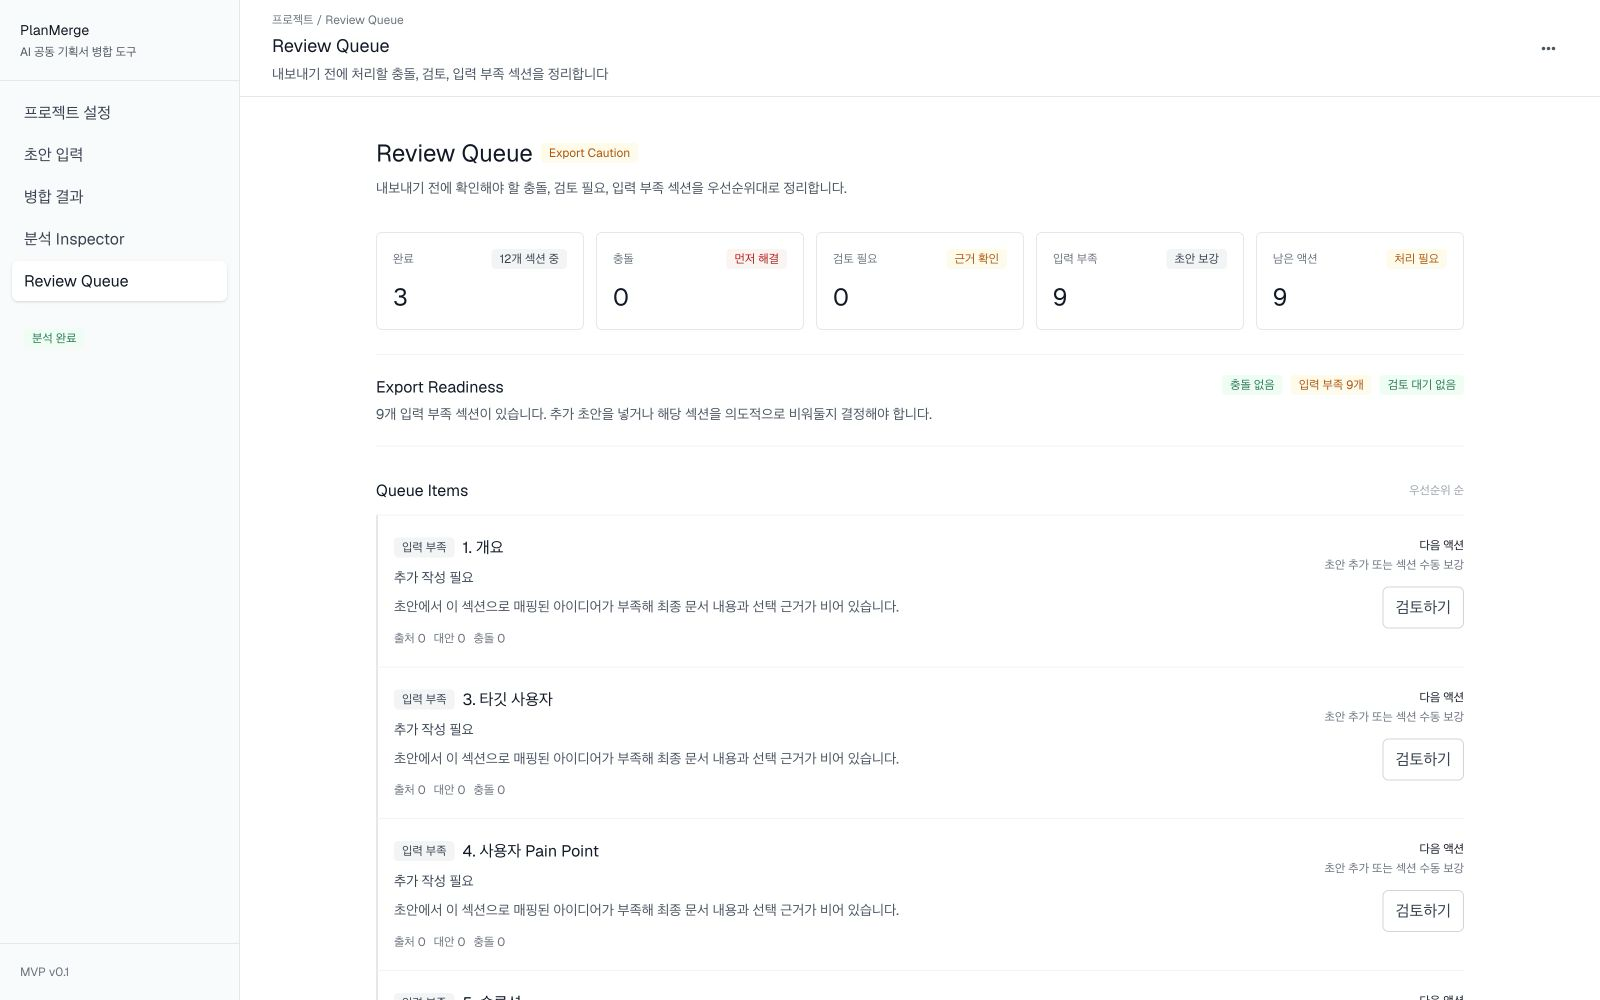
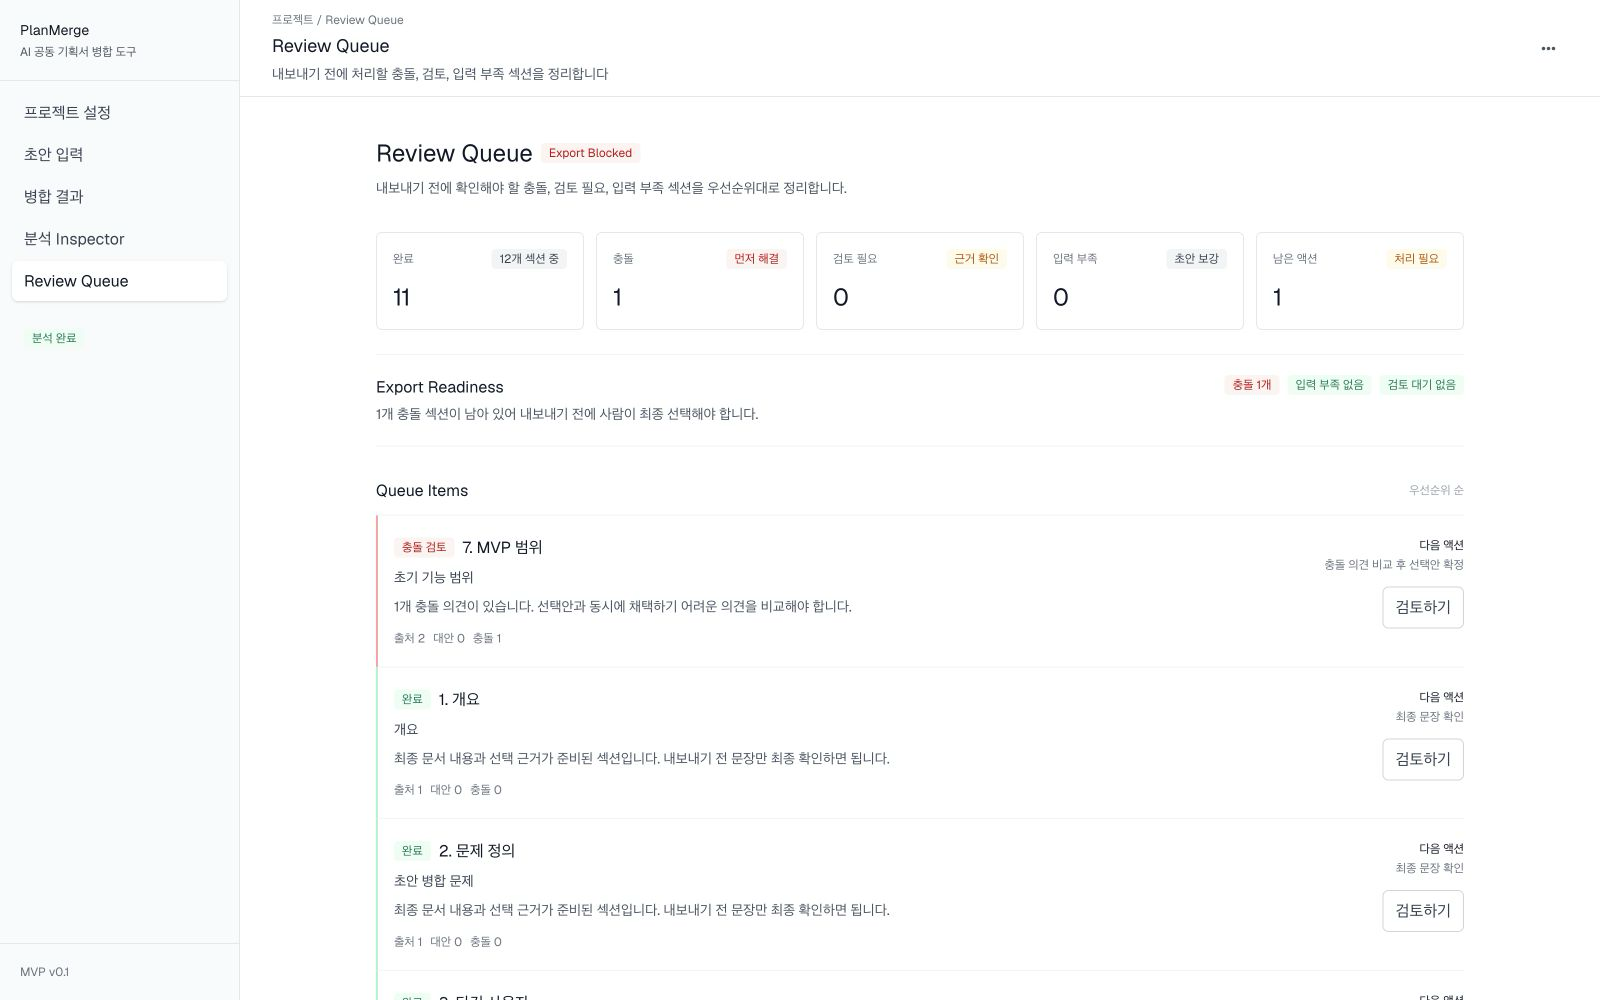
Add richer verified sample workspace

diff --git a/src/planmerge/lib/localWorkspace.ts b/src/planmerge/lib/localWorkspace.ts
@@ -62,42 +62,142 @@ export const defaultProjectSettings: ProjectSettings = {
 };
 
 export const sampleProjectSettings: ProjectSettings = {
-  title: 'AI 공동 기획서 병합 도구',
-  goal: '여러 사람이 각자 AI로 만든 기획서 초안을 하나의 문서로 병합한다.',
+  title: '회의록 기반 액션아이템 정리 SaaS',
+  goal: '회의록, 음성 요약, 메신저 대화에서 액션아이템을 추출해 담당자와 마감일 기준으로 정리하는 B2B SaaS 기획서를 만든다.',
   documentType: 'service_plan',
-  contextPack: 'MVP는 2주 안에 만들 수 있어야 한다. 초기에는 텍스트 붙여넣기 기반으로 한다.',
-  forbiddenDirection: '초기 MVP에 실시간 공동 편집, 외부 문서 연동, 팀 초대를 포함하지 않는다.',
-  outputStyle: '노션처럼 간결하고 읽기 쉬운 서비스 기획서 톤',
+  contextPack: 'MVP는 4주 안에 검증 가능해야 한다. 초기에는 회의록 텍스트 붙여넣기, 액션아이템 추출, 담당자/마감일 확인, 내보내기까지 포함한다.',
+  forbiddenDirection: '초기 MVP에 실시간 회의 녹음, 캘린더 양방향 동기화, Slack/Notion 연동까지 포함하지 않는다.',
+  outputStyle: 'B2B SaaS 의사결정 문서처럼 간결하고 검증 기준이 분명한 톤',
 };
 
 export const sampleDrafts: LocalDraftSubmission[] = [
   {
-    id: 'sample-draft-1',
-    authorName: '민수',
+    id: 'sample-draft-overview',
+    authorName: '서연',
     authorRole: 'PM',
     aiModel: 'ChatGPT',
-    taskTitle: '문제 정의',
-    rawText: '여러 사람이 AI로 기획서를 작성하면 중복, 충돌, 누락이 발생한다.',
+    taskTitle: '서비스 개요',
+    rawText: '서비스 개요: 회의록 기반 액션아이템 정리 SaaS는 회의 후 흩어지는 할 일, 담당자, 마감일을 한 화면에서 정리해 후속 실행률을 높이는 업무 도구다.',
     status: 'parsed',
     createdAtLabel: '샘플',
   },
   {
-    id: 'sample-draft-2',
+    id: 'sample-draft-problem',
+    authorName: '민수',
+    authorRole: 'PM',
+    aiModel: 'Claude',
+    taskTitle: '문제 정의',
+    rawText: '문제 정의: 회의가 끝난 뒤 결정사항과 액션아이템이 회의록, 메신저, 개인 메모에 흩어져 누락된다. 특히 담당자와 마감일이 불명확하면 다음 회의에서 같은 논의를 반복한다.',
+    status: 'parsed',
+    createdAtLabel: '샘플',
+  },
+  {
+    id: 'sample-draft-target',
+    authorName: '지현',
+    authorRole: 'Designer',
+    aiModel: 'Gemini',
+    taskTitle: '타깃 사용자',
+    rawText: '타깃 사용자: 주 5회 이상 회의를 진행하는 5~30인 규모 스타트업 팀의 PM, 팀 리드, 오퍼레이션 매니저를 초기 고객으로 둔다.',
+    status: 'parsed',
+    createdAtLabel: '샘플',
+  },
+  {
+    id: 'sample-draft-pain',
+    authorName: '도윤',
+    authorRole: 'Marketer',
+    aiModel: 'Other',
+    taskTitle: '사용자 Pain Point',
+    rawText: '사용자 Pain Point: 회의록을 다시 읽는 시간이 길고, 누가 무엇을 해야 하는지 확인하기 어렵다. 액션아이템을 별도 툴에 옮기는 반복 작업 때문에 실행 관리가 늦어진다.',
+    status: 'parsed',
+    createdAtLabel: '샘플',
+  },
+  {
+    id: 'sample-draft-solution',
+    authorName: '서연',
+    authorRole: 'PM',
+    aiModel: 'ChatGPT',
+    taskTitle: '솔루션',
+    rawText: '솔루션: 사용자가 회의록을 붙여넣으면 AI가 결정사항, 액션아이템, 담당자 후보, 마감일 후보를 추출하고 사용자가 확인한 뒤 공유 가능한 정리본으로 내보낸다.',
+    status: 'parsed',
+    createdAtLabel: '샘플',
+  },
+  {
+    id: 'sample-draft-features',
+    authorName: '현우',
+    authorRole: 'Developer',
+    aiModel: 'Cursor',
+    taskTitle: '핵심 기능',
+    rawText: '핵심 기능: 회의록 텍스트 붙여넣기, 액션아이템 자동 추출, 담당자/마감일 후보 표시, 사람 검토 체크, Markdown 내보내기, 추출 근거 문장 하이라이트가 필요하다.',
+    status: 'parsed',
+    createdAtLabel: '샘플',
+  },
+  {
+    id: 'sample-draft-mvp-selected',
+    authorName: '현우',
+    authorRole: 'Developer',
+    aiModel: 'Claude',
+    taskTitle: 'MVP 범위',
+    rawText: 'MVP 범위: 4주 안에는 텍스트 붙여넣기, 액션아이템 추출, 담당자/마감일 확인, 결과 내보내기까지만 포함한다. 인증, 결제, 외부 연동은 검증 이후로 미룬다.',
+    status: 'parsed',
+    createdAtLabel: '샘플',
+  },
+  {
+    id: 'sample-draft-mvp-conflict',
+    authorName: '나연',
+    authorRole: 'Sales',
+    aiModel: 'Gemini',
+    taskTitle: 'MVP 범위',
+    rawText: 'MVP 범위: 고객 데모 설득력을 위해 Slack 연동과 Notion 연동까지 포함해야 한다. 회의 후 바로 쓰는 제품처럼 보이려면 외부 문서 도구 연동까지 필요하다.',
+    status: 'parsed',
+    createdAtLabel: '샘플',
+  },
+  {
+    id: 'sample-draft-flow',
     authorName: '지현',
     authorRole: 'Designer',
     aiModel: 'Claude',
-    taskTitle: 'MVP 범위',
-    rawText: 'MVP는 텍스트 붙여넣기와 병합 리포트 생성에 집중한다.',
+    taskTitle: '사용자 플로우',
+    rawText: '사용자 플로우: 프로젝트 생성 후 회의록 붙여넣기, AI 추출 실행, 액션아이템 후보 검토, 담당자/마감일 수정, 승인, Markdown 또는 CSV 내보내기 순서로 진행한다.',
     status: 'parsed',
     createdAtLabel: '샘플',
   },
   {
-    id: 'sample-draft-3',
+    id: 'sample-draft-requirements',
     authorName: '현우',
     authorRole: 'Developer',
-    aiModel: 'Gemini',
+    aiModel: 'Cursor',
+    taskTitle: '요구사항',
+    rawText: '요구사항: 모든 액션아이템은 원문 근거 문장과 연결되어야 한다. 담당자와 마감일은 AI가 확정하지 않고 후보로 표시해야 하며, 사용자가 승인한 항목만 최종 결과에 포함해야 한다.',
+    status: 'parsed',
+    createdAtLabel: '샘플',
+  },
+  {
+    id: 'sample-draft-metrics',
+    authorName: '도윤',
+    authorRole: 'Marketer',
+    aiModel: 'ChatGPT',
+    taskTitle: '성공 지표',
+    rawText: '성공 지표: 회의록 정리 시간이 50% 이상 줄어드는지, 추출된 액션아이템 중 사용자가 승인한 비율이 70% 이상인지, 다음 회의 전 완료율이 개선되는지 측정한다.',
+    status: 'parsed',
+    createdAtLabel: '샘플',
+  },
+  {
+    id: 'sample-draft-risks',
+    authorName: '서연',
+    authorRole: 'PM',
+    aiModel: 'Claude',
     taskTitle: '리스크',
-    rawText: 'AI 판단에는 출처 추적과 충돌 표시가 반드시 필요하다.',
+    rawText: '리스크: AI가 회의록에 없는 담당자나 마감일을 확정하면 신뢰가 깨진다. 따라서 출처 문장 연결, 후보 표시, 사용자 승인 로그가 반드시 필요하다.',
+    status: 'parsed',
+    createdAtLabel: '샘플',
+  },
+  {
+    id: 'sample-draft-open',
+    authorName: '나연',
+    authorRole: 'Sales',
+    aiModel: 'Other',
+    taskTitle: '미결정 사항',
+    rawText: '미결정 사항: 초기 고객을 PM 조직으로 좁힐지, 세일즈/CS 팀까지 포함할지 논의가 필요하다. CSV 내보내기를 MVP에 넣을지도 고객 인터뷰 후 결정해야 한다.',
     status: 'parsed',
     createdAtLabel: '샘플',
   },
@@ -123,6 +223,16 @@ export function createSampleWorkspaceState(): LocalWorkspaceState {
     }),
     decisionLogs: [],
   };
+}
+
+export function isSampleWorkspaceState(state: LocalWorkspaceState) {
+  const sampleDraftIds = new Set(sampleDrafts.map((draft) => draft.id));
+
+  return (
+    state.project.title === sampleProjectSettings.title &&
+    state.drafts.length === sampleDrafts.length &&
+    state.drafts.every((draft) => sampleDraftIds.has(draft.id))
+  );
 }
 
 type WorkspaceExportFile = {

diff --git a/scripts/run-planmerge-quality-cases.ts b/scripts/run-planmerge-quality-cases.ts
@@ -129,20 +129,21 @@ const completeSectionDrafts = [
 const cases: QualityCase[] = [
   {
     id: 'baseline-default',
-    title: '기본 샘플은 유효하지만 섹션 누락 때문에 review여야 한다.',
+    title: '기본 샘플은 12개 섹션을 채우고 MVP 범위 충돌을 드러내야 한다.',
     payload: {
       project: sampleProjectSettings,
       drafts: sampleDrafts,
     },
     expect: {
       parse: 'valid',
-      level: 'review',
-      maxScore: 79,
-      minIdeas: 3,
-      minDecisionBlocks: 3,
-      minFinalSections: 3,
+      level: 'ready',
+      minScore: 80,
+      minIdeas: 13,
+      minDecisionBlocks: 12,
+      minFinalSections: 12,
       requireAllInputDraftsUsed: true,
-      requireMissingSections: true,
+      requireConflict: true,
+      requireNoMissingSections: true,
     },
   },
   {

diff --git a/src/planmerge/App.tsx b/src/planmerge/App.tsx
@@ -15,6 +15,7 @@ import {
   createDraftSubmission,
   createSampleWorkspaceState,
   defaultWorkspaceState,
+  isSampleWorkspaceState,
   loadWorkspaceState,
   parseWorkspaceImport,
   saveWorkspaceState,
@@ -51,6 +52,7 @@ export default function App() {
   const selectedSection = mergeSections.find((section) => section.number === activeSection) ?? mergeSections[0];
   const displayedIdeaCount = workspaceState.analysisResult?.normalizedIdeas.length
     ?? mergeSections.filter((section) => section.content.trim()).length;
+  const sampleWorkspace = isSampleWorkspaceState(workspaceState);
 
   useEffect(() => {
     let cancelled = false;
@@ -488,7 +490,7 @@ export default function App() {
             팀 공유 워크스페이스입니다. 투표와 익명 의견이 참여자 전체 기준으로 집계됩니다. 문서 편집은 이 브라우저에만 유지됩니다.
           </div>
         )}
-        {activeView === 'merge' && workspaceState.analysisResult?.source === 'local_harness' && (
+        {activeView === 'merge' && workspaceState.analysisResult?.source === 'local_harness' && !sampleWorkspace && (
           <div className="border-b border-amber-100 bg-amber-50 px-8 py-2 text-sm text-amber-800">
             로컬 하네스 결과입니다. 실제 모델 호출 전 구조 검증과 화면 연결 확인에 사용합니다.
           </div>

diff --git a/README.md b/README.md
@@ -9,6 +9,7 @@
 - **배포 링크**: [https://planmerge-ai.vercel.app](https://planmerge-ai.vercel.app)
 - **GitHub**: [whtjddlr/togetAI](https://github.com/whtjddlr/togetAI)
 - **현재 배포 상태**: 빈 프로젝트 시작, GMS 기반 AI 분석, Neon 기반 공유 워크스페이스/익명 투표/의견 집계 연결
+- **검증 샘플**: 회의록 기반 액션아이템 SaaS 예시, 13개 초안 · 12개 섹션 · MVP 범위 충돌 1개를 하네스에서 검증
 
 ## Screenshots
 